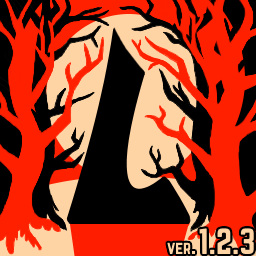
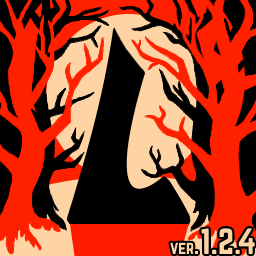
1.2.4 patch

Changed region(s): [[0.625, 0.875, 1.0, 1.0]]

diff --git a/WstlPlugin.cs b/WstlPlugin.cs
@@ -23,7 +23,7 @@ namespace WhistleWindLobotomyMod
     {
         public const string pluginGuid = "whistlewind.inscryption.lobotomycorp";
         public const string pluginName = "WhistleWind Lobotomy Corp";
-        private const string pluginVersion = "1.2.3";
+        private const string pluginVersion = "1.2.4";
 
         internal static ManualLogSource Log;
         private static Harmony harmony = new(pluginGuid);
@@ -52,10 +52,7 @@ namespace WhistleWindLobotomyMod
                 Log.LogDebug("Loading challenges...");
                 AddChallenges();
                 Log.LogDebug("Loading abilities...");
-                if (!AbnormalSigils.Enabled)
-                    AddAbilities();
-                else
-                    Log.LogWarning("Abnormal Sigils is installed! Skipping abilities...");
+                AddAbilities();
                 AddSpecialAbilities();
                 Log.LogDebug("Loading cards...");
                 AddAppearances();
@@ -158,49 +155,52 @@ namespace WhistleWindLobotomyMod
         }
         private void AddAbilities()
         {
-            //Ability_Test();
-
-            Ability_Punisher();
-            Ability_Bloodfiend();
-            Ability_Martyr();
-            Ability_Aggravating();
-            Ability_TeamLeader();
-            Ability_Idol();
-            Ability_Conductor();
-            Ability_Woodcutter();
-            Ability_FrozenHeart();
-            Ability_FrostRuler();
-            Ability_Roots();
-            Ability_BroodMother();
-            Ability_Cursed();
-            Ability_Healer();
-            Ability_QueenNest();
-            Ability_BitterEnemies();
-            Ability_Courageous();
-            Ability_SerpentsNest();
-            Ability_Assimilator();
-            Ability_GroupHealer();
-            Ability_Reflector();
-            Ability_FlagBearer();
-            Ability_Grinder();
-            Ability_TheTrain();
-            Ability_Burning();
-            Ability_Regenerator();
-            Ability_Volatile();
-            Ability_GiftGiver();
-            Ability_Piercing();
-            Ability_Scrambler();
-            Ability_Gardener();
-            Ability_Slime();
-            Ability_Marksman();
-            Ability_Protector();
-            Ability_QuickDraw();
-            Ability_Alchemist();
-            Ability_TimeMachine();
-            Ability_Nettles();
-            Ability_Spores();
-            Ability_Witness();
-            Ability_Corrector();
+            if (!AbnormalSigils.Enabled)
+            {
+                Ability_Punisher();
+                Ability_Bloodfiend();
+                Ability_Martyr();
+                Ability_Aggravating();
+                Ability_TeamLeader();
+                Ability_Idol();
+                Ability_Conductor();
+                Ability_Woodcutter();
+                Ability_FrozenHeart();
+                Ability_FrostRuler();
+                Ability_Roots();
+                Ability_BroodMother();
+                Ability_Cursed();
+                Ability_Healer();
+                Ability_QueenNest();
+                Ability_BitterEnemies();
+                Ability_Courageous();
+                Ability_SerpentsNest();
+                Ability_Assimilator();
+                Ability_GroupHealer();
+                Ability_Reflector();
+                Ability_FlagBearer();
+                Ability_Grinder();
+                Ability_TheTrain();
+                Ability_Burning();
+                Ability_Regenerator();
+                Ability_Volatile();
+                Ability_GiftGiver();
+                Ability_Piercing();
+                Ability_Scrambler();
+                Ability_Gardener();
+                Ability_Slime();
+                Ability_Marksman();
+                Ability_Protector();
+                Ability_QuickDraw();
+                Ability_Alchemist();
+                Ability_TimeMachine();
+                Ability_Nettles();
+                Ability_Spores();
+                Ability_Witness();
+                Ability_Corrector();
+            }
+            else
+                Log.LogWarning("Abnormal Sigils is installed! Skipping abilities...");
 
             Ability_Apostle();
             Ability_TrueSaviour();

diff --git a/README.md b/README.md
@@ -48,7 +48,12 @@ For a list of previous updates and a full description of the current update, ref
 See Closing Notes for info on future updates.
 
 <details>
-<summary>Latest Update - v1.2.3</summary>
+<summary>Latest Update - v1.2.4</summary>
+
+### v1.2.4 - Big Boy patch (11/22/2022)
+* 🩹 Bug fixes
+  * Fixed cards with custom evolutions evolving into the wrong forme when played by Leshy
+  * Reverted prior change to Mountain of Smiling Bodies
 
 ### v1.2.3 - Bodies of Apostles patch (11/21/2022)
 * 🧱 General

diff --git a/FULL_CHANGELOG.md b/FULL_CHANGELOG.md
@@ -1,5 +1,10 @@
 ## FULL CHANGELOG
 
+### v1.2.4 - Big Boy patch (11/22/2022)
+* 🩹 Bug fixes
+  * Fixed cards with custom evolutions evolving into the wrong forme when played by Leshy
+  * Reverted prior change to Mountain of Smiling Bodies
+
 ### v1.2.3 - Bodies of Apostles patch (11/21/2022)
 * 🧱 General
   * Mod now unpatches itself OnDisable
